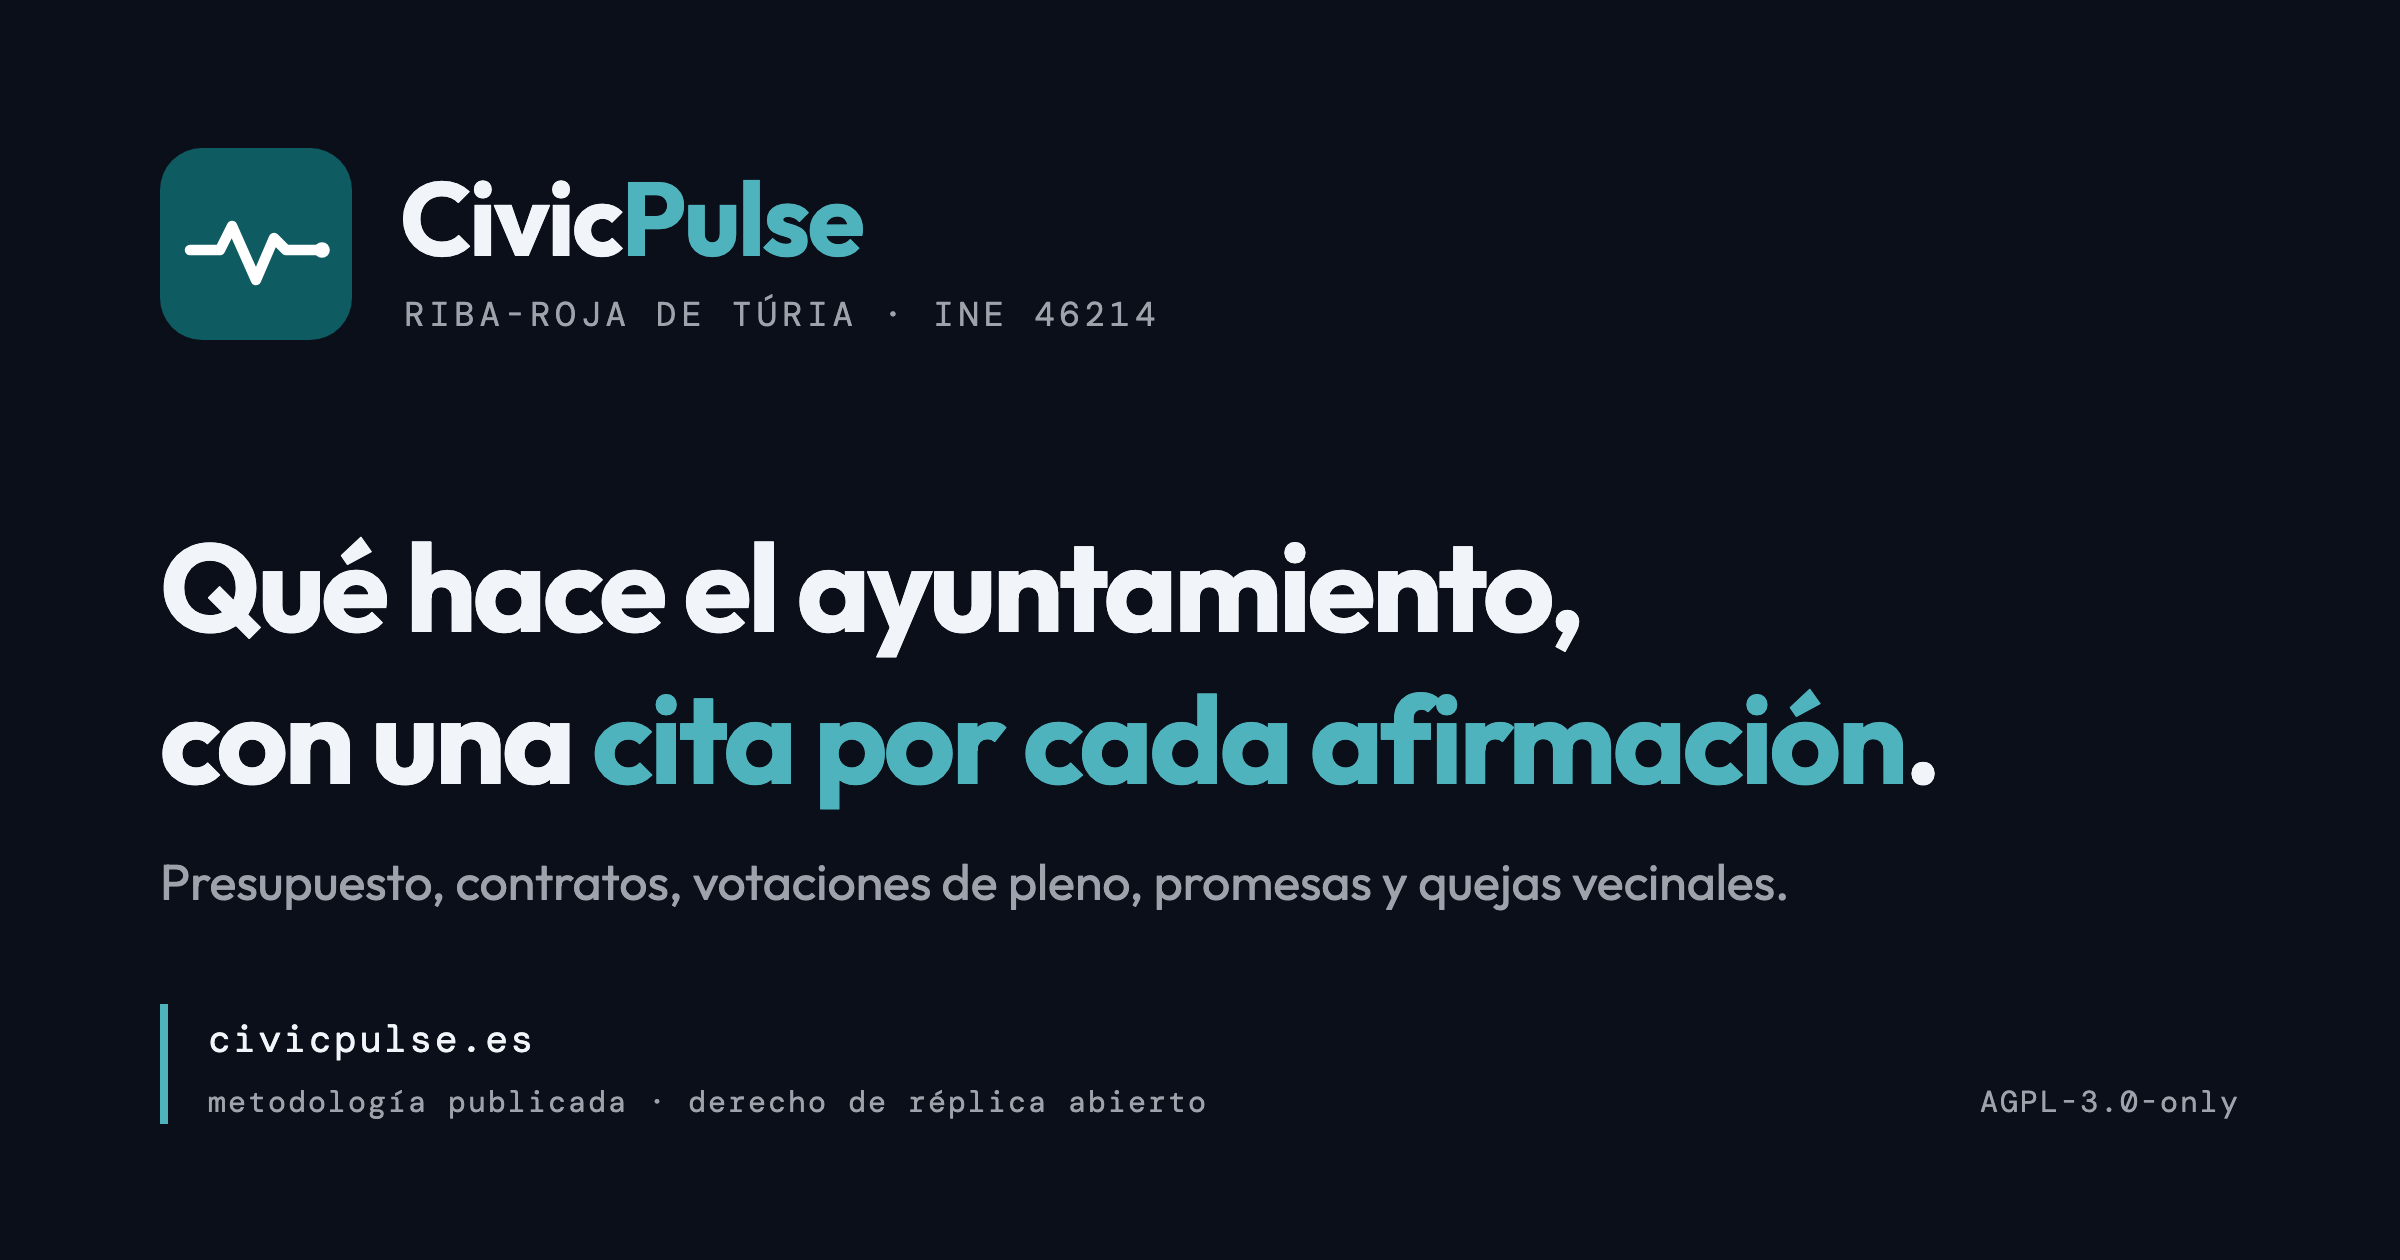
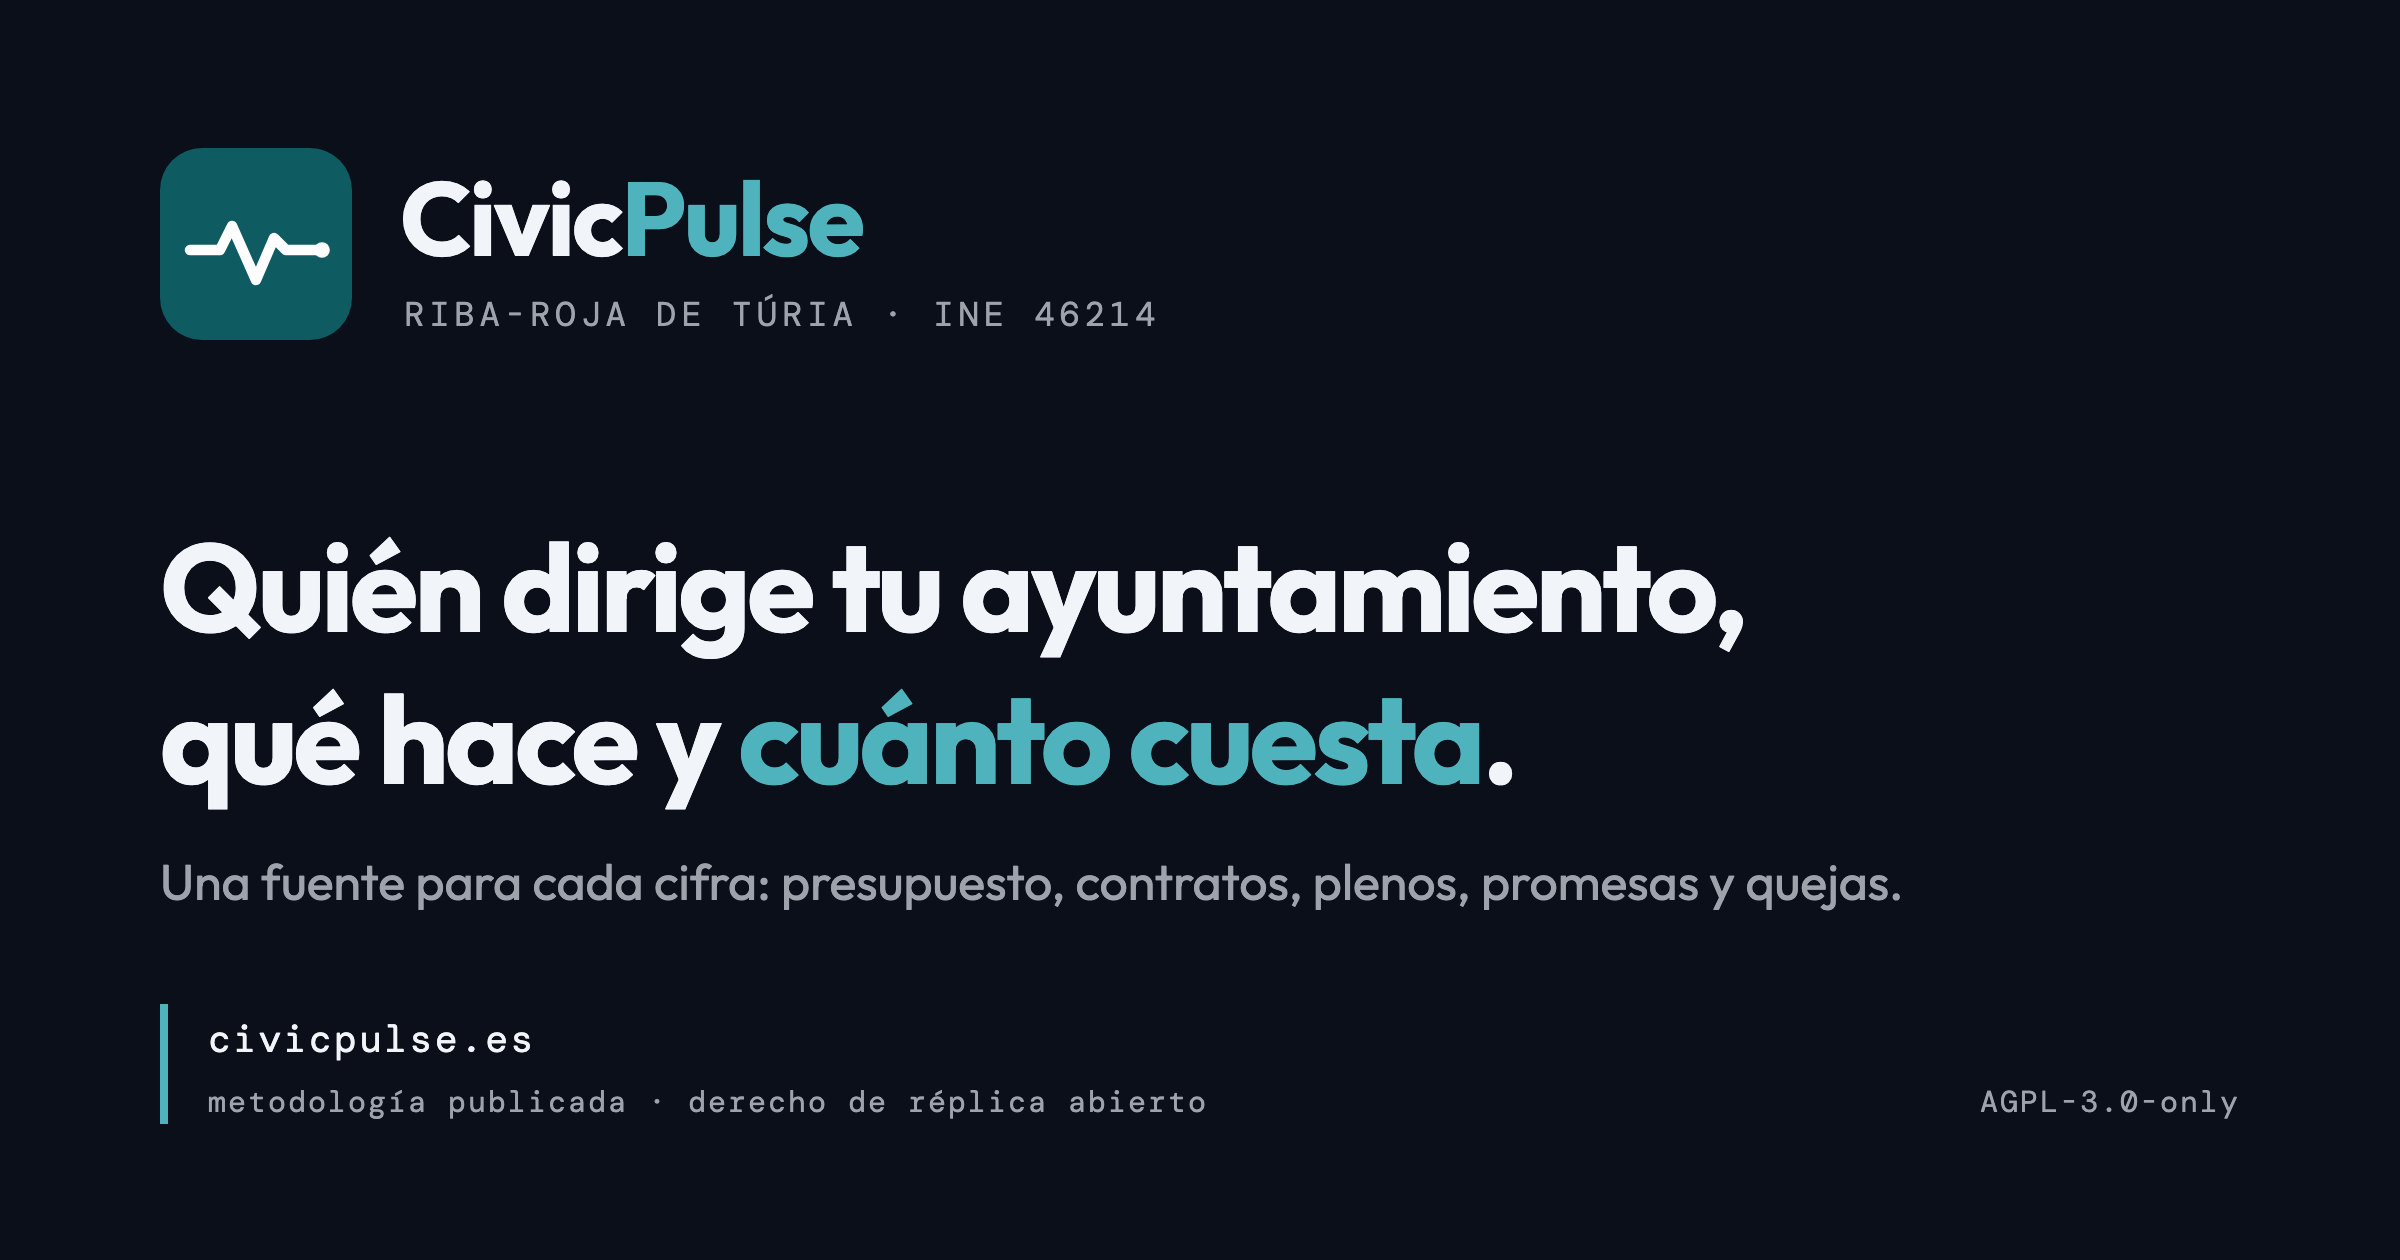
fix(tarjeta): la tarjeta social empieza por quién dirige, como la fuente
La pieza más vista del proyecto —la que se abre al compartir un enlace— seguía
anunciando «Qué hace el ayuntamiento, con una cita por cada afirmación»: el orden
que docs/DESCRIPCION.md retiró el 2026-09-08, cuando el «quién» pasó a primero.

El PR que llevó ese orden a las TRES etiquetas de texto de index.html
(description, og:description, twitter:description) se dejó fuera las DOS que
describen la imagen: el aria-label de public/og.svg y el og:image:alt. La
corrección se hizo donde no se ve y quedó sin hacer donde más se ve.

  titular 1   Qué hace el ayuntamiento,          -> Quién dirige tu ayuntamiento,
  titular 2   con una CITA POR CADA AFIRMACIÓN.  -> qué hace y CUÁNTO CUESTA.
  subtítulo   Presupuesto, contratos, votaciones -> UNA FUENTE PARA CADA CIFRA:
                                                    presupuesto, contratos…

Cambia también la PROMESA, no sólo el orden: era «una cita por cada afirmación» y
el one-liner dice «una fuente para cada cifra».

El orden no es una preferencia: «Identidad y orden» fija siete pasos y el primero
es quién ocupa cada cargo, con su motivo al lado —el sitio ya empezaba por ahí,
/cargos es la primera ruta tras la portada, y la descripción hablaba de dinero y
de promesas sin mencionar a nadie—.

Medido en el navegador con las fuentes de marca cargadas, no estimado, porque el
titular nuevo es más largo:

  Quién dirige tu ayuntamiento,   792 px   margen derecho 328
  qué hace y cuánto cuesta.       678 px   margen derecho 442
[…]

Changed region(s): [[0.125, 0.4333, 0.75, 0.5262], [0.0625, 0.5571, 0.8125, 0.65], [0.0625, 0.681, 0.7812, 0.7429]]

diff --git a/tests/tarjeta-orden.test.js b/tests/tarjeta-orden.test.js
@@ -1,0 +1,146 @@
+import { describe, it, expect } from 'vitest'
+import { readFileSync } from 'node:fs'
+import { join } from 'node:path'
+
+/**
+ * La tarjeta social dice lo que dice la fuente, y en su orden.
+ *
+ * `docs/DESCRIPCION.md` fijó el 2026-09-08 que toda descripción empieza por
+ * **quién** y sigue por **medir**: el sitio ya empezaba por ahí —`/cargos` es la
+ * primera ruta tras la portada— y la descripción hablaba de dinero y de promesas
+ * sin mencionar a nadie.
+ *
+ * El PR que llevó ese orden a las etiquetas de texto de `index.html`
+ * (`description`, `og:description`, `twitter:description`) dejó fuera las DOS
+ * superficies que describen la imagen: el `aria-label` de `public/og.svg` y el
+ * `og:image:alt`. O sea que la pieza más vista del proyecto —la que se abre en
+ * WhatsApp— siguió meses anunciando «qué hace el ayuntamiento, con una cita por
+ * cada afirmación», el orden retirado y una promesa que el one-liner ya no hace.
+ *
+ * `tests/metaetiquetas.test.js` vigila las tres de texto. Esto vigila las dos de
+ * la imagen, con la misma regla: **el texto se DERIVA del one-liner**, no se
+ * recita aquí. Una copia escrita en este fichero dejaría la prueba verde
+ * mientras el documento y la tarjeta se separan, que es exactamente cómo se
+ * produjo el desfase que arregla.
+ *
+ * Lo que NO comprueba: el aspecto. Que una línea se salga de la caja no lo ve
+ * ninguna suite —la tarjeta es una imagen—, así que eso se mide en el navegador
+ * al rasterizar (`scripts/render-og.mjs` ya exige que las fuentes de marca hayan
+ * cargado antes de escribir el PNG).
+ */
+const RAIZ = join(__dirname, '..')
+const SVG = readFileSync(join(RAIZ, 'public/og.svg'), 'utf8')
+const HTML = readFileSync(join(RAIZ, 'index.html'), 'utf8')
+const DESCRIPCION = readFileSync(join(RAIZ, 'docs/DESCRIPCION.md'), 'utf8')
+
+/**
+ * El one-liner ES: la cita que sigue a su encabezado, con las líneas unidas.
+ *
+ * Misma forma que `tests/metaetiquetas.test.js`, a propósito: las dos leen la
+ * misma sección del mismo documento, y si el encabezado se renombra las dos
+ * tienen que enterarse igual.
+ */
+function oneLiner(md) {
+  const m = /^### One-liner ES\s*\n+((?:>.*\n?)+)/m.exec(md)
+  if (!m) return null
+  return m[1]
+    .split('\n')
+    .map((l) => l.replace(/^>\s?/, '').trim())
+    .filter(Boolean)
+    .join(' ')
+}
+
+const ariaLabel = /aria-label="([^"]+)"/.exec(SVG)?.[1]?.trim() ?? null
+const imageAlt =
+  /<meta[^>]*property="og:image:alt"[^>]*content="([^"]*)"/.exec(HTML)?.[1]?.trim() ??
+  // El atributo `content` puede ir en la línea siguiente al `property`.
+  /property="og:image:alt"\s*\n\s*content="([^"]*)"/.exec(HTML)?.[1]?.trim() ??
+  null
+
+/** El texto visible de la tarjeta, en orden de aparición. */
+const textoTarjeta = [...SVG.matchAll(/<text\b[^>]*>([\s\S]*?)<\/text>/g)]
+  .map((m) =>
+    m[1]
+      .replace(/<[^>]+>/g, '')
+      .replace(/\s+/g, ' ')
+      .trim(),
+  )
+  .filter(Boolean)
+  .join(' ')
+
+/** «quién» antes que «qué hace», que es el orden que fija la fuente. */
+function ordenCorrecto(frase) {
+  const s = frase.toLowerCase()
+  const quien = s.indexOf('quién dirige')
+  const queHace = s.indexOf('qué hace')
+  return { quien, queHace, ok: quien >= 0 && queHace > quien }
+}
+
+describe('la tarjeta social sigue el orden de la fuente', () => {
+  const esperado = oneLiner(DESCRIPCION)
+
+  // Anti-hueco. Sin esto, un encabezado renombrado o un atributo escrito de otra
+  // forma dejarían las comparaciones de abajo midiendo null contra null: verde
+  // por no haber mirado nada.
+  it('mide algo: hay one-liner, aria-label, og:image:alt y texto en la tarjeta', () => {
+    expect(esperado, 'no se encontró «### One-liner ES» en docs/DESCRIPCION.md').toBeTruthy()
+    expect(ariaLabel, 'public/og.svg no declara aria-label').toBeTruthy()
+    expect(imageAlt, 'index.html no declara og:image:alt').toBeTruthy()
+    expect(textoTarjeta.length, 'no se extrajo texto de los <text> de og.svg').toBeGreaterThan(80)
+  })
+
+  it('el aria-label del SVG y el og:image:alt son la MISMA frase', () => {
+    // Describen la misma imagen. Dos copias que se separan es cómo una quedó con
+    // el orden viejo mientras la otra se corregía.
+    expect(
+      imageAlt,
+      'el alt de index.html y el aria-label de og.svg describen la misma imagen y tienen que decir lo mismo',
+    ).toBe(ariaLabel)
+  })
+
+  for (const [dónde, frase] of [
+    ['el aria-label de og.svg', () => ariaLabel],
+    ['el og:image:alt de index.html', () => imageAlt],
+    ['el texto visible de la tarjeta', () => textoTarjeta],
+  ]) {
+    it(`${dónde} nombra «quién dirige» antes que «qué hace»`, () => {
+      const o = ordenCorrecto(frase())
+      expect(
+        o.quien,
+        `${dónde} no menciona «quién dirige». El orden fijo de DESCRIPCION.md empieza por quién ocupa cada cargo, no por el dinero`,
+      ).toBeGreaterThanOrEqual(0)
+      expect(
+        o.ok,
+        `${dónde} pone «qué hace» (posición ${o.queHace}) antes que «quién dirige» (posición ${o.quien})`,
+      ).toBe(true)
+    })
+  }
+
+  /**
+   * La promesa de la tarjeta es la del one-liner, no una propia.
+   *
+   * No se compara la frase entera —el alt lleva además el nombre del sitio y el
+   * municipio, y el titular va partido en dos líneas— así que se comprueba el
+   * TRAMO que hace la promesa, extraído del one-liner en vez de recitado.
+   */
+  it('la tarjeta hace la promesa del one-liner, y no la retirada', () => {
+    const promesa = /—\s*(?:con\s+)?(una fuente para cada cifra)/i.exec(esperado)?.[1]
+    expect(
+      promesa,
+      'el one-liner de DESCRIPCION.md ya no termina en «una fuente para cada cifra»: actualiza esta prueba junto con la tarjeta, no sólo una de las dos',
+    ).toBeTruthy()
+
+    for (const [dónde, frase] of [
+      ['el alt', imageAlt],
+      ['el texto de la tarjeta', textoTarjeta],
+    ]) {
+      expect(frase.toLowerCase(), `${dónde} no hace la promesa del one-liner`).toContain(
+        promesa.toLowerCase(),
+      )
+      expect(
+        frase.toLowerCase(),
+        `${dónde} sigue prometiendo «una cita por cada afirmación», que es la promesa que el one-liner retiró`,
+      ).not.toContain('cita por cada afirmación')
+    }
+  })
+})

diff --git a/tests/meta-og.test.ts b/tests/meta-og.test.ts
@@ -27,7 +27,13 @@ import { construirMetas, inyectarMeta, type MetaRuta } from '../src/scraper/meta
 
 const BASE = 'https://www.civicpulse.es'
 const TITULO_SITIO = 'CivicPulse · Riba-roja de Túria'
-const DESC_SITIO = 'Qué hace el ayuntamiento, con una cita por cada afirmación.'
+// El one-liner de docs/DESCRIPCION.md, que es lo que `prerender-meta` extrae de
+// la `og:description` de index.html en producción. Aquí es sólo la entrada del
+// caso de prueba —y se compara contra sí misma—, pero citar la frase vieja hacía
+// que este fichero afirmara como descripción del sitio un orden que
+// DESCRIPCION.md retiró el 2026-09-08.
+const DESC_SITIO =
+  'CivicPulse enseña quién dirige tu ayuntamiento, qué hace y cuánto cuesta — con una fuente para cada cifra.'
 
 const opciones = (extra = {}) => ({
   rutas: ['/', '/presupuesto', '/reportajes/conteo-visitantes'],

diff --git a/index.html b/index.html
@@ -29,7 +29,7 @@
     <meta property="og:image:height" content="630" />
     <meta
       property="og:image:alt"
-      content="CivicPulse · Riba-roja de Túria — qué hace el ayuntamiento, con una cita por cada afirmación"
+      content="CivicPulse · Riba-roja de Túria — quién dirige tu ayuntamiento, qué hace y cuánto cuesta, con una fuente para cada cifra"
     />
     <meta property="og:locale" content="es_ES" />
 
